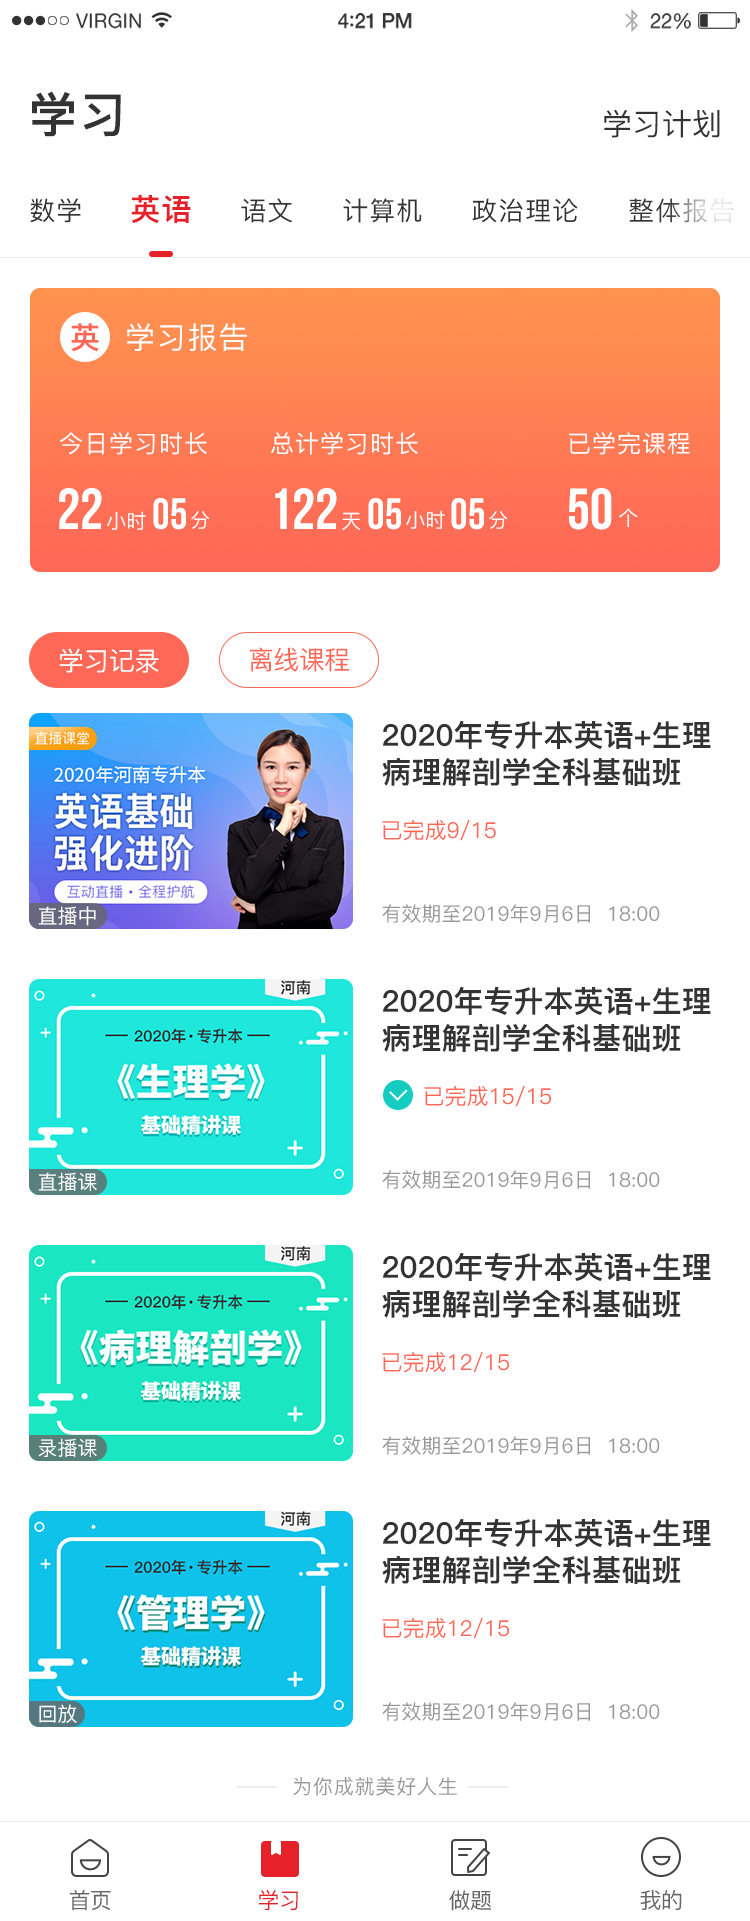
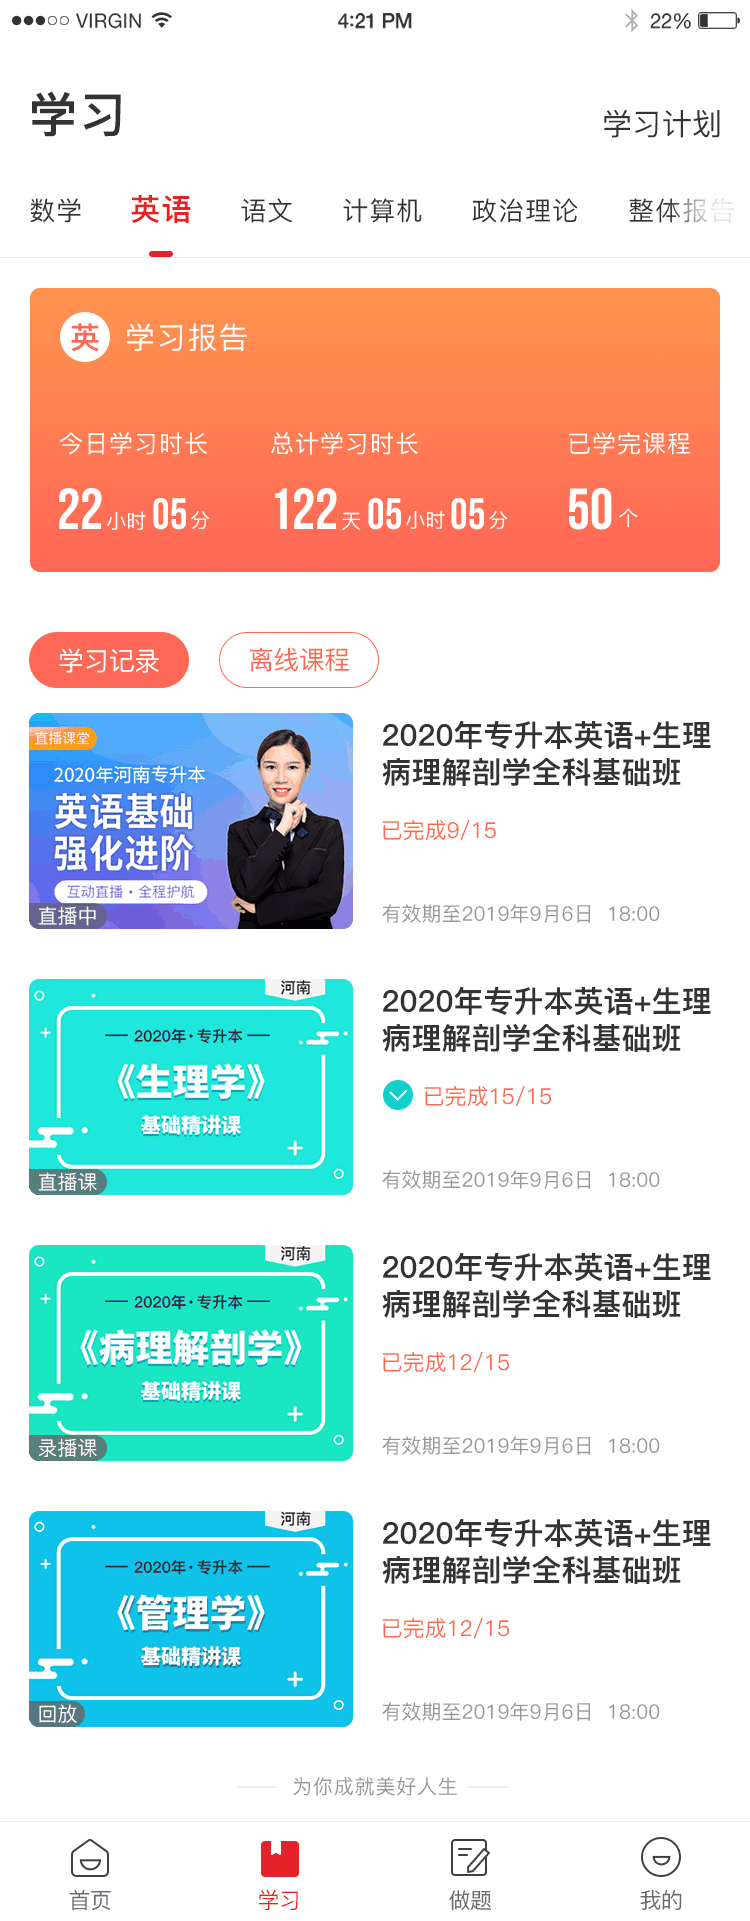
feat: 接入图片自动压缩机制
- 新增 optimize_images.py：宽度>1080 缩放，PNG 量化 256 色+optimize，原地覆盖且路径不变

- 部署流程加『装 Pillow -> 压缩 -> 上线』，飞书改完自动部署即为压缩后版本

- sync.sh 自动建 .venv 装 Pillow 并跑压缩，本地一键完成

- 本地 3 张图 1640KB -> 572KB（-65%），线上已压

- .gitignore 排除 .venv/

diff --git a/optimize_images.py b/optimize_images.py
@@ -1,0 +1,86 @@
+#!/usr/bin/env python3
+"""压缩 images/ 下的截图，原地覆盖，保持文件名与后缀不变。
+
+- 宽度超过 MAX_W 的图缩放到 MAX_W（竖图优先，画廊展示足够清晰）
+- PNG：铺白底去透明 -> 256 色调色板 -> optimize，体积小且文字清晰
+- JPG：resize + quality 压缩
+部署前和本地 sync 时都会调用，用户只需往 images/ 丢原图即可。
+"""
+import os
+import sys
+from PIL import Image
+
+IMAGES_DIR = "images"
+MAX_W = 1080
+
+
+def optimize_file(path):
+    try:
+        im = Image.open(path)
+    except Exception as e:
+        print(f"  ⚠  跳过 {path}：{e}")
+        return 0, 0
+
+    before = os.path.getsize(path)
+
+    # 缩放：仅当宽度超限
+    if im.width > MAX_W:
+        h = int(im.height * MAX_W / im.width)
+        im = im.resize((MAX_W, h), Image.LANCZOS)
+
+    lower = path.lower()
+    if lower.endswith(".png"):
+        # 去透明：贴到白底，再量化成 256 色 PNG（体积小、文字清晰）
+        if im.mode in ("RGBA", "LA", "P"):
+            if im.mode != "P":
+                im = im.convert("RGBA")
+            bg = Image.new("RGB", im.size, (255, 255, 255))
+            mask = im.split()[-1] if im.mode in ("RGBA", "LA") else None
+            bg.paste(im, mask=mask)
+            im = bg
+        else:
+            im = im.convert("RGB")
+        im = im.convert("P", palette=Image.ADAPTIVE, colors=256)
+        im.save(path, optimize=True)
+    elif lower.endswith((".jpg", ".jpeg")):
+        if im.mode != "RGB":
+            im = im.convert("RGB")
+        im.save(path, "JPEG", quality=82, optimize=True)
+    else:
+        return before, before
+
+    after = os.path.getsize(path)
+    return before, after
+
+
+def main():
+    if not os.path.isdir(IMAGES_DIR):
+        print(f"未找到 {IMAGES_DIR}/ 目录，跳过压缩")
+        return
+    total_before = total_after = 0
+    count = 0
+    print(f"🗜  压缩 {IMAGES_DIR}/ 下的图片（最大宽度 {MAX_W}px）...")
+    for name in sorted(os.listdir(IMAGES_DIR)):
+        if name.lower().endswith((".png", ".jpg", ".jpeg")):
+            p = os.path.join(IMAGES_DIR, name)
+            b, a = optimize_file(p)
+            count += 1
+            total_before += b
+            total_after += a
+            if b != a:
+                print(f"  ✅ {name}: {b//1024}KB -> {a//1024}KB  (-{(1-a/b)*100:.0f}%)")
+    if count == 0:
+        print("  没有需要压缩的图片")
+        return
+    saved = total_before - total_after
+    pct = (saved / total_before * 100) if total_before else 0
+    print(f"📦 共 {count} 张，{total_before//1024}KB -> {total_after//1024}KB，省 {saved//1024}KB (-{pct:.0f}%)")
+
+
+if __name__ == "__main__":
+    try:
+        from PIL import Image  # noqa
+    except ImportError:
+        print("⚠  未安装 Pillow，跳过压缩（部署流程会自动安装）。本地用：pip install Pillow")
+        sys.exit(0)
+    main()
